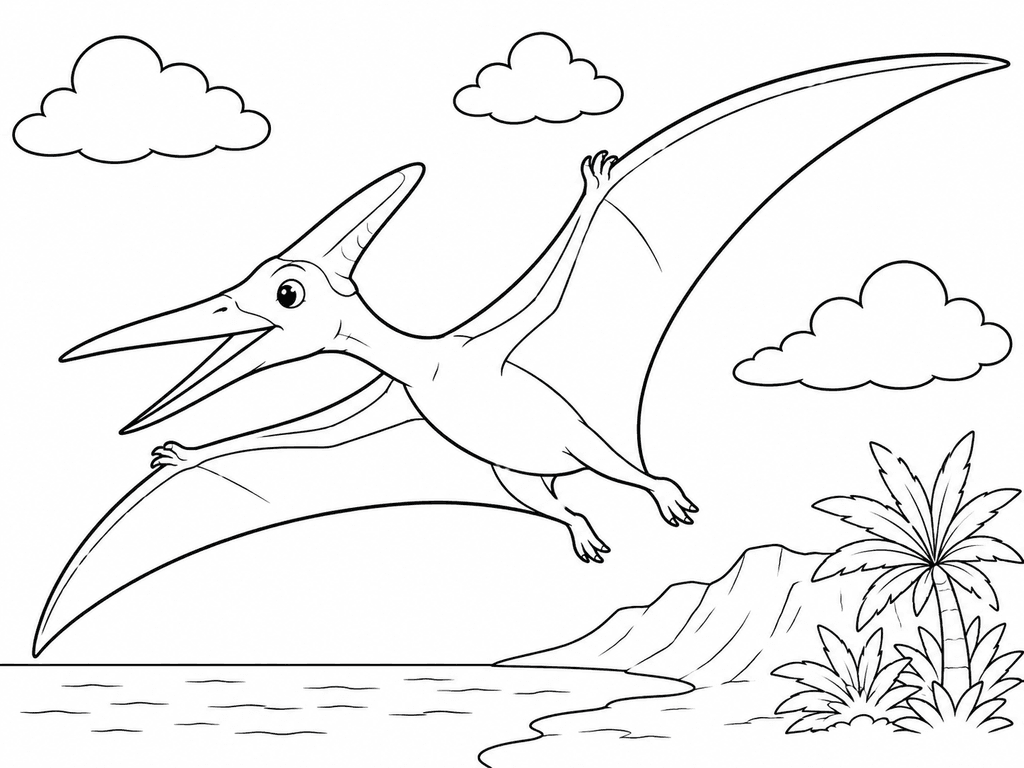
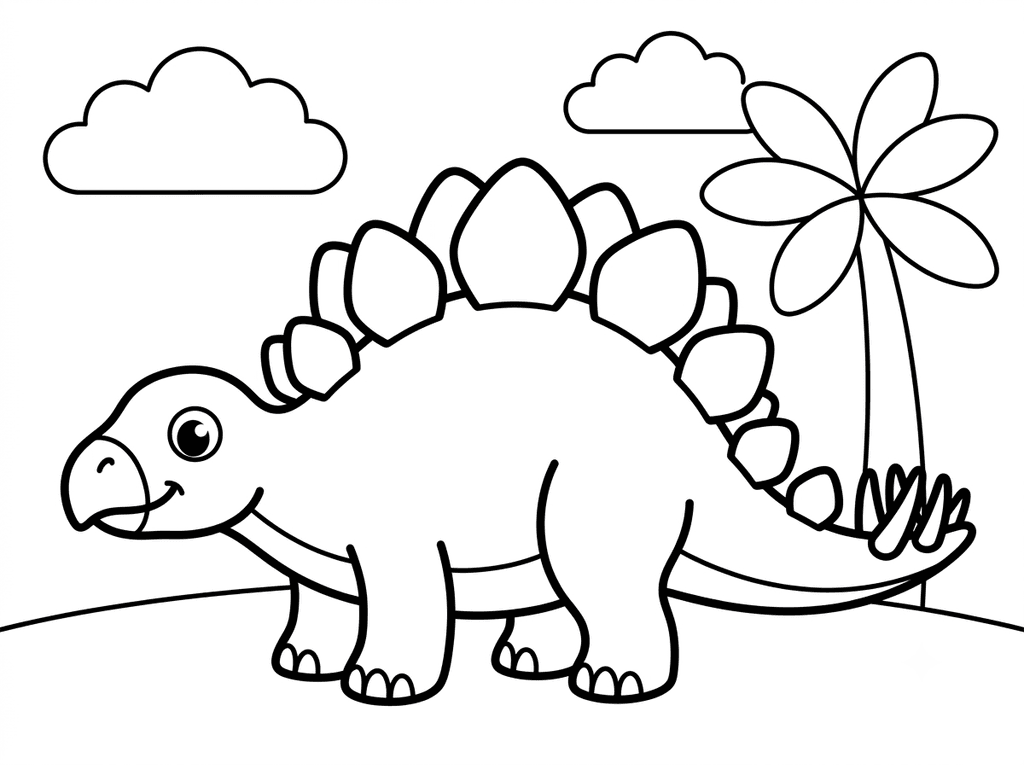
Fix swapped shared Stegosaurus / Pteranodon artwork
The shared-stegosaurus.png and shared-pteranodon.png images had their
contents swapped, so the library showed a pteranodon labelled ステゴサウルス
and a stegosaurus labelled プテラノドン. Swap the file contents so each
matches its name, and bump the service worker cache to v3 so devices pick
up the corrected images.

diff --git a/public/sw.js b/public/sw.js
@@ -3,7 +3,7 @@
 //   オンライン時は常に最新を取得（＝新デプロイ・新しい共有下絵がすぐ届く）、
 //   オフライン時はキャッシュにフォールバック。
 // - それ以外の同一オリジン GET（ハッシュ付き JS/CSS、png 等）は cache-first。
-const CACHE_NAME = "dino-coloring-v2";
+const CACHE_NAME = "dino-coloring-v3";
 const PRECACHE = ["./", "./index.html", "./manifest.webmanifest"];
 
 self.addEventListener("install", (event) => {
